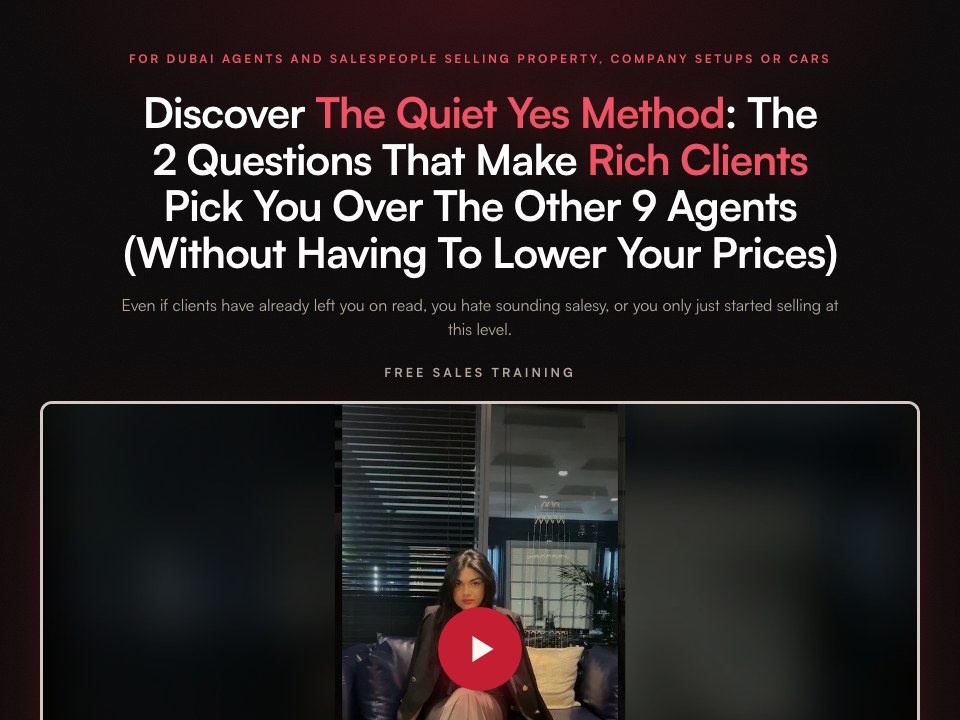
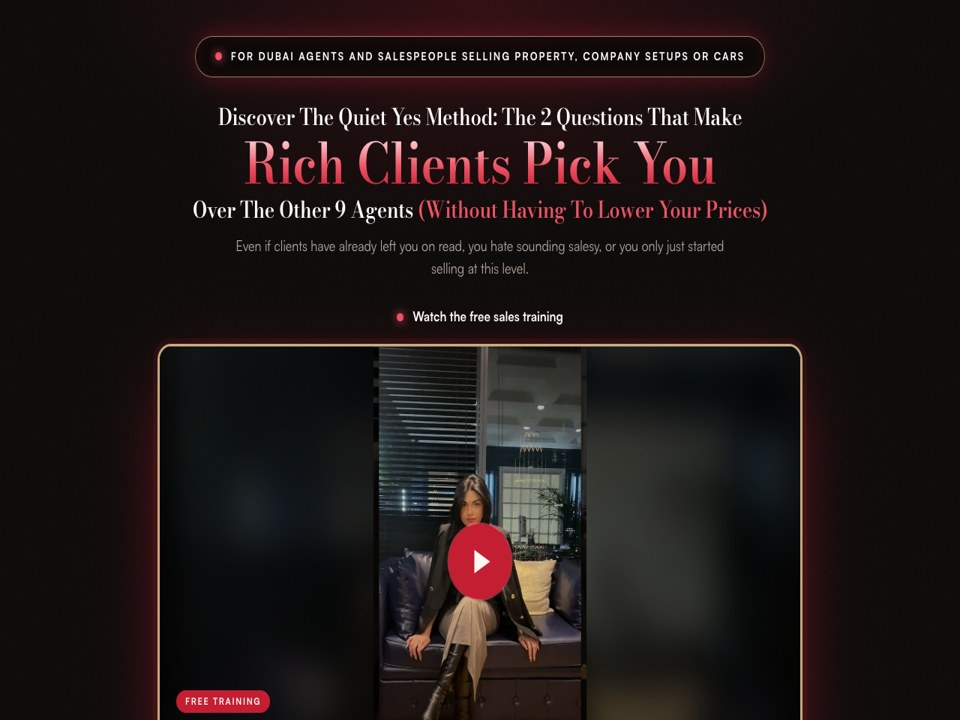
Landing: Ravi-order template in Mansi colours

Changed region(s): [[0.0312, 0.0306, 0.9688, 1.0]]

diff --git a/vsl/lt.css b/vsl/lt.css
@@ -1,0 +1,96 @@
+/* Landing page look: structure of the live Limitless Agency page, in warm black and champagne gold with a soft glow */
+body::before { background: radial-gradient(60% 38% at 50% 0%, rgba(196, 30, 51, 0.20), transparent 70%), radial-gradient(50% 30% at 50% 100%, rgba(196, 30, 51, 0.10), transparent 70%), #0a0807; }
+.lt { max-width: 1120px; margin: 0 auto; padding: clamp(28px, 5vh, 56px) 20px clamp(48px, 7vh, 80px); text-align: center; font-family: "Montserrat", var(--sans); }
+.lt-hero { max-width: 900px; margin: 0 auto; }
+.lt-pill { display: inline-flex; align-items: center; gap: 12px; padding: 12px 26px; border-radius: 999px; background: rgba(10, 8, 7, .8); border: 1.5px solid rgba(227, 199, 149, .55); box-shadow: 0 0 34px -6px rgba(196, 30, 51, .55), inset 0 0 18px rgba(196, 30, 51, .12); font-size: .78rem; font-weight: 800; letter-spacing: .16em; text-transform: uppercase; color: #fff; }
+.lt-pill i, .lt-watch i, .lt-kicker i, .lt-step i, .lt-apply__head i, .lt-ticker__tag i { display: inline-block; width: 9px; height: 9px; border-radius: 50%; background: var(--accent-text); box-shadow: 0 0 12px var(--accent-text); }
+.lt-h1 { margin-top: 30px; font-weight: 800; letter-spacing: -.03em; line-height: 1.08; color: #fff; text-wrap: balance; }
+.lt-h1__a { display: block; font-size: clamp(1.15rem, 2.6vw, 1.7rem); font-weight: 700; }
+.lt-h1__b { display: block; margin: 6px 0; font-size: clamp(2.6rem, 7.6vw, 5.2rem); line-height: 1.02; background: linear-gradient(180deg, #ffe3e6, #ee5466 55%, #c41e33); -webkit-background-clip: text; background-clip: text; color: transparent; filter: drop-shadow(0 0 30px rgba(196, 30, 51, .35)); }
+.lt-h1__c { display: block; font-size: clamp(1.1rem, 2.4vw, 1.6rem); font-weight: 700; }
+.lt-h1__c em { font-style: normal; color: var(--accent-text); }
+.lt-watch { margin: 28px 0 18px; display: flex; flex-wrap: wrap; align-items: center; justify-content: center; gap: 10px 12px; font-size: .95rem; }
+.lt-watch b { font-weight: 800; color: #fff; }
+.lt-watch span { color: var(--muted); font-size: .85rem; }
+.lt-video { max-width: 860px; margin: 0 auto; }
+.lt-video .video__frame { border: 3px solid rgba(227, 199, 149, .85); border-radius: 18px; box-shadow: 0 0 0 6px rgba(196, 30, 51, .12), 0 30px 90px -20px rgba(196, 30, 51, .65); overflow: hidden; }
+.lt-video__cap { font-family: "Montserrat", var(--sans); position: absolute; left: 22px; bottom: 26px; text-align: left; display: grid; gap: 8px; z-index: 3; }
+.lt-video__cap b { justify-self: start; padding: 5px 12px; border-radius: 999px; background: var(--accent); color: var(--accent-ink); font-size: .66rem; letter-spacing: .16em; text-transform: uppercase; font-weight: 800; }
+.lt-video__cap strong { font-size: clamp(1.1rem, 3vw, 1.7rem); font-weight: 800; color: #fff; letter-spacing: -.02em; text-shadow: 0 2px 18px rgba(0,0,0,.7); }
+.lt-cta { margin-top: 30px; display: flex; flex-wrap: wrap; align-items: stretch; justify-content: center; gap: 14px; }
+.lt-cta .btn-apply { border-radius: 999px; letter-spacing: .1em; font-weight: 800; padding: 18px 34px; }
+.lt-cta__note { display: flex; align-items: center; gap: 10px; max-width: 420px; padding: 12px 18px; border-radius: 12px; background: rgba(255,255,255,.04); border: 1px solid var(--hair); text-align: left; color: var(--muted); font-size: .82rem; line-height: 1.4; }
+.lt-cta__note span { flex: none; display: grid; place-items: center; width: 22px; height: 22px; border-radius: 50%; border: 1.5px solid var(--accent-text); color: var(--accent-text); font-size: .7rem; }
+.lt-fine { margin-top: 12px; color: var(--muted); font-size: .8rem; }
+.lt-stat { margin: clamp(40px, 6vh, 64px) auto 0; max-width: 860px; display: grid; grid-template-columns: 96px auto 1fr; align-items: center; gap: 22px; padding: 18px 26px; border-radius: 18px; background: rgba(255,255,255,.03); border: 1px solid rgba(227, 199, 149, .4); box-shadow: 0 0 44px -14px rgba(196, 30, 51, .5); text-align: left; }
+.lt-stat img { width: 96px; height: 120px; object-fit: cover; object-position: 50% 20%; border-radius: 12px; }
+.lt-stat__n b { display: block; font-size: 2.4rem; font-weight: 800; letter-spacing: -.03em; background: linear-gradient(180deg, #ffe3e6, #ee5466); -webkit-background-clip: text; background-clip: text; color: transparent; line-height: 1; }
+.lt-stat__n span { display: block; margin-top: 8px; font-size: .68rem; font-weight: 800; letter-spacing: .14em; text-transform: uppercase; color: var(--accent-text); }
+.lt-stat > p { padding-left: 22px; border-left: 1px solid var(--hair); color: var(--ink); font-size: .92rem; line-height: 1.55; }
+.lt-promise { margin: 28px auto 0; max-width: 860px; display: grid; grid-template-columns: 110px 1fr; align-items: center; gap: 26px; padding: 26px 30px; border-radius: 22px; text-align: left; background: linear-gradient(135deg, rgba(184,147,90,.18), rgba(10,8,7,.9) 60%); border: 1.5px solid rgba(227, 199, 149, .65); box-shadow: 0 0 60px -18px rgba(196, 30, 51, .65); }
+.lt-promise__badge { display: grid; place-items: center; align-content: center; width: 104px; height: 104px; border-radius: 50%; background: radial-gradient(circle at 35% 30%, #ff8a97, #c41e33 70%); color: #fff7f2; box-shadow: 0 0 40px rgba(184,147,90,.6); }
+.lt-promise__badge b { font-size: 2.2rem; font-weight: 800; line-height: 1; }
+.lt-promise__badge small { font-size: .62rem; font-weight: 800; letter-spacing: .18em; }
+.lt-promise__k { font-size: .7rem; font-weight: 800; letter-spacing: .2em; text-transform: uppercase; color: var(--accent-text); }
+.lt-promise h2 { margin: 8px 0; font-size: clamp(1.4rem, 3vw, 2rem); font-weight: 800; letter-spacing: -.02em; color: #fff; line-height: 1.15; }
+.lt-promise p:last-child { color: var(--muted); font-size: .9rem; line-height: 1.55; }
+.lt-promise a { color: var(--accent-text); text-decoration: underline; }
+.lt-kicker { display: inline-flex; align-items: center; gap: 12px; font-size: .74rem; font-weight: 800; letter-spacing: .22em; text-transform: uppercase; color: var(--accent-text); }
+.lt-h2 { margin-top: 16px; font-size: clamp(1.8rem, 4.4vw, 3rem); font-weight: 800; letter-spacing: -.03em; line-height: 1.1; color: #fff; text-wrap: balance; }
+.lt-h2 em { font-style: normal; color: var(--accent-text); }
+.lt-sub { margin-top: 12px; color: var(--muted); font-size: 1rem; }
+.lt-learn, .lt-numbers, .lt-cases, .lt-wins, .lt-faq { margin-top: clamp(64px, 10vh, 110px); }
+.lt-learn__grid { margin: 30px auto 0; max-width: 980px; display: grid; grid-template-columns: repeat(3, 1fr); gap: 16px; text-align: left; }
+.lt-learn__grid article { padding: 26px 24px; border-radius: 18px; background: var(--surface); border: 1px solid var(--hair); box-shadow: 0 0 40px -20px rgba(184,147,90,.5); }
+.lt-learn__grid span { font-size: .8rem; font-weight: 800; letter-spacing: .2em; color: var(--accent-text); }
+.lt-learn__grid h3 { margin-top: 12px; font-size: 1.2rem; font-weight: 800; letter-spacing: -.01em; color: #fff; line-height: 1.25; }
+.lt-learn__grid p { margin-top: 10px; color: var(--muted); font-size: .92rem; line-height: 1.55; }
+.lt-apply { margin-top: clamp(64px, 10vh, 110px); display: grid; grid-template-columns: 1fr 1.05fr; gap: clamp(28px, 5vw, 64px); align-items: start; text-align: left; max-width: 1040px; margin-inline: auto; padding-top: 56px; border-top: 1px solid var(--hair); }
+.lt-step { display: inline-flex; align-items: center; gap: 12px; font-size: .74rem; font-weight: 800; letter-spacing: .22em; text-transform: uppercase; color: var(--accent-text); }
+.lt-apply .lt-h2 { margin-top: 14px; }
+.lt-apply__lead { margin-top: 14px; color: var(--ink); font-size: 1.05rem; line-height: 1.55; }
+.lt-steps { list-style: none; margin: 26px 0 0; padding: 0; display: grid; gap: 12px; }
+.lt-steps li { display: grid; grid-template-columns: 44px 1fr; gap: 14px; align-items: start; padding: 16px 18px; border-radius: 14px; background: var(--surface); border: 1px solid var(--hair); }
+.lt-steps b { display: grid; place-items: center; width: 44px; height: 44px; border-radius: 10px; background: var(--accent); color: var(--accent-ink); font-weight: 800; }
+.lt-steps h3 { font-size: 1rem; font-weight: 800; color: #fff; }
+.lt-steps p { margin-top: 4px; color: var(--muted); font-size: .86rem; line-height: 1.5; }
+.lt-apply__head { display: flex; justify-content: space-between; align-items: center; margin-bottom: 14px; font-size: .74rem; font-weight: 800; letter-spacing: .18em; text-transform: uppercase; color: var(--ink); }
+.lt-apply__head span { display: inline-flex; align-items: center; gap: 10px; }
+.lt-apply__head small { color: var(--muted); letter-spacing: .04em; text-transform: none; font-weight: 500; }
+.lt-apply .st6__form { max-width: none; margin: 0; border-color: rgba(227,199,149,.5); box-shadow: 0 0 60px -20px rgba(184,147,90,.6); }
+.lt-numbers__grid { margin: 30px auto 0; max-width: 980px; display: grid; grid-template-columns: repeat(3, 1fr); gap: 16px; }
+.lt-numbers__grid div { padding: 38px 20px; border-radius: 22px; background: radial-gradient(120% 90% at 50% 0%, rgba(184,147,90,.18), rgba(255,255,255,.02)); border: 1px solid rgba(227,199,149,.3); }
+.lt-numbers__grid b { display: block; font-size: clamp(2.6rem, 6vw, 4.2rem); font-weight: 800; letter-spacing: -.03em; color: #fff; line-height: 1; }
+.lt-numbers__grid span { display: block; margin-top: 14px; color: var(--muted); font-size: .95rem; }
+.lt-ticker { margin: clamp(48px, 7vh, 72px) -20px 0; display: flex; align-items: center; border-block: 1px solid var(--hair); background: rgba(255,255,255,.02); overflow: hidden; }
+.lt-ticker__tag { flex: none; z-index: 2; display: inline-flex; align-items: center; gap: 10px; padding: 18px 22px; background: #0a0807; font-size: .72rem; font-weight: 800; letter-spacing: .18em; text-transform: uppercase; color: #fff; box-shadow: 14px 0 20px #0a0807; }
+.lt-ticker__track { display: flex; gap: 38px; padding-left: 22px; white-space: nowrap; animation: ltTicker 48s linear infinite; }
+.lt-ticker__track span { display: inline-flex; align-items: center; gap: 12px; font-size: .86rem; font-weight: 600; color: var(--ink); }
+.lt-ticker__track i { width: 7px; height: 7px; border-radius: 50%; background: var(--accent-text); box-shadow: 0 0 10px var(--accent-text); }
+@keyframes ltTicker { to { transform: translateX(-50%); } }
+.lt-cases__row { margin: 30px -20px 0; padding: 4px 20px 18px; display: flex; gap: 16px; overflow-x: auto; scroll-snap-type: x mandatory; text-align: left; }
+.lt-case { flex: none; width: 300px; scroll-snap-align: start; padding: 0 0 20px; border-radius: 18px; background: var(--surface); border: 1px solid var(--hair); overflow: hidden; }
+.lt-case__img { position: relative; aspect-ratio: 4 / 3; overflow: hidden; }
+.lt-case__img img { width: 100%; height: 100%; object-fit: cover; display: block; }
+.lt-case__play { position: absolute; left: 50%; top: 50%; width: 58px; height: 58px; margin: -29px 0 0 -29px; border-radius: 50%; background: rgba(184,147,90,.92); box-shadow: 0 0 30px rgba(184,147,90,.7); }
+.lt-case__play::before { content: ""; position: absolute; left: 50%; top: 50%; transform: translate(-40%, -50%); border-style: solid; border-width: 9px 0 9px 15px; border-color: transparent transparent transparent #fff7f2; }
+.lt-case h3 { margin: 18px 18px 0; font-size: 1.35rem; font-weight: 800; letter-spacing: -.02em; color: var(--accent-text); line-height: 1.15; }
+.lt-case p { margin: 8px 18px 0; color: var(--muted); font-size: .85rem; line-height: 1.45; }
+.lt-wins__grid { margin: 30px auto 0; max-width: 1040px; column-count: 3; column-gap: 14px; }
+.lt-win { margin: 0 0 14px; break-inside: avoid; padding: 8px; border-radius: 14px; background: var(--surface); border: 1px solid var(--hair); }
+.lt-win img { width: 100%; height: auto; display: block; border-radius: 8px; }
+.lt-faq .lt-h2 { margin-bottom: 22px; }
+@media (max-width: 860px) { .lt-apply { grid-template-columns: 1fr; } .lt-learn__grid, .lt-numbers__grid { grid-template-columns: 1fr; } .lt-wins__grid { column-count: 2; } .lt-stat { grid-template-columns: 80px 1fr; } .lt-stat > p { grid-column: 1 / -1; padding: 14px 0 0; border: 0; border-top: 1px solid var(--hair); } .lt-promise { grid-template-columns: 1fr; text-align: center; } .lt-promise__badge { margin: 0 auto; } }
+@media (max-width: 520px) { .lt-wins__grid { column-count: 1; } .lt-case { width: 260px; } }
+@media (prefers-reduced-motion: reduce) { .lt-ticker__track { animation: none; } }
+
+.lt-h1__b { font-size: clamp(2.2rem, 6.4vw, 4.4rem); }
+.lt { overflow-x: clip; width: 100%; min-width: 0; box-sizing: border-box; }
+.lt-ticker { min-width: 0; contain: paint; width: 100%; margin-inline: 0; }
+.lt-cases__row { max-width: 100vw; margin-inline: 0; padding-inline: 4px; }
+
+/* the three numbers always sit on one line */
+.lt-h1__b { white-space: nowrap; font-size: clamp(1.45rem, 5.3vw, 3.9rem); }
+
+/* the white line above the numbers stays on one line on desktop */
+@media (min-width: 900px) { .lt-h1__a { white-space: nowrap; font-size: clamp(1.1rem, 2vw, 1.7rem); } }

diff --git a/vsl/index.html b/vsl/index.html
@@ -7,32 +7,102 @@
   <meta name="robots" content="noindex" />
   <script>document.documentElement.className += " js";</script>
   <link rel="icon" href="../assets/img/favicon.png" type="image/png" />
+  <link rel="apple-touch-icon" href="../assets/img/apple-touch-icon.png" />
   <link rel="stylesheet" href="vsl.css" />
   <link rel="stylesheet" href="../assets/brand.css" />
   <link rel="stylesheet" href="st6.css" />
+  <link rel="stylesheet" href="lt.css" />
+<script data-topfix>try{if("scrollRestoration" in history)history.scrollRestoration="manual"}catch(e){}addEventListener("load",function(){if(!location.hash){scrollTo(0,0);setTimeout(function(){scrollTo(0,0)},50)}});</script>
+<style>.lt-oncall{max-width:760px;margin:clamp(56px,9vh,96px) auto 0;padding:0 max(16px,env(safe-area-inset-left,0px))}.lt-oncall .lt-steps h3{color:var(--ink)}</style>
+<style>.lt-h1{font-family:var(--display);letter-spacing:-.01em}.lt-h2{font-family:var(--display)}.lt-sub{max-width:62ch;margin:14px auto 0}@media (min-width:1000px){.lt-cases__row{justify-content:center}}</style>
 </head>
 <body>
+  <!-- ONE page: eyebrow, headline, VSL, CTA, on this call, numbers, results, more wins, FAQ, application. -->
+  <main class="page lt">
+    <div class="lt-hero">
+      <p class="lt-pill"><i></i>For Dubai agents and salespeople selling property, company setups or cars</p>
+      <h1 class="lt-h1">
+        <span class="lt-h1__a">Discover The Quiet Yes Method: The 2 Questions That Make</span>
+        <span class="lt-h1__b">Rich Clients Pick You</span>
+        <span class="lt-h1__c">Over The Other 9 Agents <em>(Without Having To Lower Your Prices)</em></span>
+      </h1>
+      <p class="lt-sub">Even if clients have already left you on read, you hate sounding salesy, or you only just started selling at this level.</p>
+      <p class="lt-watch"><i></i><b>Watch the free sales training</b></p>
 
-  <main class="page st6">
-    <p class="eyebrow st6__eyebrow">For Dubai agents and salespeople selling property, company setups or cars</p>
-    <h1 class="st6__title">Discover <span>The Quiet Yes Method</span>: The 2 Questions That Make <span>Rich Clients</span> Pick You Over The Other 9 Agents (Without Having To Lower Your Prices)</h1>
-    <p class="st6__even">Even if clients have already left you on read, you hate sounding salesy, or you only just started selling at this level.</p>
-    <p class="st6__tag">Free sales training</p>
+      <!-- {SWAP: training video} -->
+      <div class="lt-video">
+        <button class="video__frame" type="button" data-optin aria-label="Watch the free training">
+          <img src="../assets/img/vsl-thumb.jpg" alt="Mansi Panchal" />
+          <span class="video__scrim" aria-hidden="true"></span>
+          <span class="play" aria-hidden="true"></span>
+          <span class="lt-video__cap" aria-hidden="true"><b>Free training</b><strong>The Quiet Yes: the 2 questions</strong></span>
+          <span class="video__bar" aria-hidden="true"><span></span></span>
+        </button>
+      </div>
 
-    
-    <div class="st6__video">
-      <button class="video__frame" type="button" data-optin aria-label="Watch the free training">
-        <img src="../assets/img/vsl-thumb.jpg" alt="Mansi Panchal" />
-        <span class="video__scrim" aria-hidden="true"></span>
-        <span class="play" aria-hidden="true"></span>
-        <span class="video__bar" aria-hidden="true"><span></span></span>
-      </button>
+      <div class="lt-cta">
+        <a class="btn-apply" href="#apply-inline">Book a free call <span class="arr" aria-hidden="true" style="transform:rotate(45deg)"></span></a>
+      </div>
+
+      
+
+      
     </div>
 
-    <h2 class="st6__h2">Ready To Take The Next Step?</h2>
-    <p class="st6__lead">Fill out the short application and see if you're the right fit for The Closing Room. Not every application is accepted.</p>
+    <section class="lt-oncall">
+      <p class="lt-kicker"><i></i>On this call we&rsquo;ll</p>
+      <ol class="lt-steps">
+        <li><b>1</b><div><h3>Find where your deals get stuck</h3><p>We look at the moment clients go quiet: after the details, after the price, or on the call.</p></div></li>
+        <li><b>2</b><div><h3>Show you the Quiet Yes on your real deals</h3><p>&ldquo;Compared to what?&rdquo; Then silence. Then &ldquo;What are they excluding from the price?&rdquo;</p></div></li>
+        <li><b>3</b><div><h3>Tell you honestly if The Closing Room can help</h3><p>If it&rsquo;s not a fit, my team will tell you on the call.</p></div></li>
+      </ol>
+    </section>
 
-    <div class="st6__form" id="apply-inline">
+    <section class="lt-numbers">
+      <p class="lt-kicker"><i></i>The numbers</p>
+      <h2 class="lt-h2">The numbers behind <em>Mansi.</em></h2>
+      <div class="lt-numbers__grid">
+        <div><b>109K</b><span>people learning sales from her</span></div>
+        <div><b>3M</b><span>plays on one Reel</span></div>
+        <div><b>AED 3,500</b><span>her first sales job in 2019, now CEO of FounderX</span></div>
+      </div>
+    </section>
+
+    <section class="lt-cases">
+      <p class="lt-kicker"><i></i>Real results</p>
+      <h2 class="lt-h2">From sales executive <em>to CEO.</em></h2>
+      <p class="lt-sub">She started as a business set-up advisor in 2019, became the one who closed the biggest clients, and built FounderX in Business Bay.</p>
+      <div class="lt-cases__row"><article class="lt-case"><div class="lt-case__img"><img src="../assets/img/proof/p4.jpg" alt="Mansi Panchal" loading="lazy" /></div><h3>CEO of FounderX</h3><p>Company formation in Business Bay, Dubai</p></article><article class="lt-case"><div class="lt-case__img"><img src="../assets/img/proof/p1.jpg" alt="Mansi Panchal" loading="lazy" /></div><h3>3M plays</h3><p>Her G-Wagon Reel</p></article><article class="lt-case"><div class="lt-case__img"><img src="../assets/img/proof/p6.jpg" alt="Mansi Panchal" loading="lazy" /></div><h3>109K followers</h3><p>Who come to her for sales advice</p></article></div>
+    </section>
+
+    <section class="lt-wins">
+      <p class="lt-kicker"><i></i>Want to see more?</p>
+      <h2 class="lt-h2">A day in <em>her world.</em></h2>
+      <div class="lt-wins__grid"><figure class="lt-win"><img src="../assets/img/proof/p2.jpg" alt="Mansi Panchal" loading="lazy" /></figure><figure class="lt-win"><img src="../assets/img/proof/p3.jpg" alt="Mansi Panchal" loading="lazy" /></figure><figure class="lt-win"><img src="../assets/img/proof/p5.jpg" alt="Mansi Panchal" loading="lazy" /></figure><figure class="lt-win"><img src="../assets/img/proof/p7.jpg" alt="Mansi Panchal" loading="lazy" /></figure><figure class="lt-win"><img src="../assets/img/proof/p8.jpg" alt="Mansi Panchal" loading="lazy" /></figure></div>
+    </section>
+
+    <section class="st6__faq lt-faq">
+      <p class="lt-kicker"><i></i>Questions</p>
+      <h2 class="lt-h2">Before you <em>apply.</em></h2>
+      <details open><summary>What happens after I apply?</summary><p>My team reads your answers. If it looks like a fit, you pick a time for a 30-minute call. They look at where your deals get stuck and tell you honestly if The Closing Room can help.</p></details>
+      <details><summary>Do I need sales experience?</summary><p>No. If you sell something expensive, or you want to move into sales, you can apply.</p></details>
+      <details><summary>How much time does it take?</summary><p>One short lesson and one live call a week, planned around your meetings and viewings.</p></details>
+    </section>
+
+    <section class="lt-apply" id="apply">
+      <div class="lt-apply__left">
+        <p class="lt-step"><i></i>Step 1 of 2</p>
+        <h2 class="lt-h2">Ready to take <em>the next step?</em></h2>
+        <p class="lt-apply__lead">Fill out the short application and see if you&rsquo;re the right fit for The Closing Room. Not every application is accepted.</p>
+        <ol class="lt-steps">
+          <li><b>1</b><div><h3>Answer 6 quick questions</h3><p>What you sell, last month&rsquo;s earnings and where you lose deals. Under 60 seconds.</p></div></li>
+          <li><b>2</b><div><h3>Pick a time</h3><p>Grab a slot right after the questions.</p></div></li>
+          <li><b>3</b><div><h3>30-minute call with my team</h3><p>They look at where your deals get stuck. If it&rsquo;s a fit, they show you how The Closing Room works.</p></div></li>
+        </ol>
+      </div>
+      <div class="lt-apply__right">
+        <p class="lt-apply__head"><span><i></i>Application</span><small>About 60 seconds</small></p>
+        <div class="st6__form" id="apply-inline">
       <div class="apply__progress"><span id="apply-bar"></span></div>
 
       <div class="q on">
@@ -107,14 +177,23 @@
         <p class="book__tz">Gulf time · 30-minute call</p>
       </div>
     </div>
-
-    <section class="st6__faq">
-      <p class="eyebrow">Questions</p>
-      <h2 class="st6__h2">Before You Apply</h2>
-      <details open><summary>What happens after I apply?</summary><p>My team reads your answers. If it looks like a fit, you pick a time for a 30-minute call. They look at where your deals get stuck and tell you honestly if The Closing Room can help.</p></details>
-      <details><summary>Do I need sales experience?</summary><p>No. If you sell something expensive, or you want to move into sales, you can apply.</p></details>
-      <details><summary>How much time does it take?</summary><p>One short lesson and one live call a week, planned around your meetings and viewings.</p></details>
+      </div>
     </section>
+
+
+    
+
+    
+
+    
+
+    
+
+    
+
+    
+
+    
   </main>
 
   <footer class="brandfoot">
@@ -150,6 +229,16 @@
         var inp = q.querySelector(".q__input"); if (inp) inp.addEventListener("keydown", function (e) { if (e.key === "Enter") { e.preventDefault(); show(i + 1); } });
         q.querySelectorAll(".book__day").forEach(function (d, _, all) { d.addEventListener("click", function () { all.forEach(function (x) { x.classList.remove("sel"); }); d.classList.add("sel"); }); });
       });
+    })();
+  </script>
+  <script>
+    // counters
+    (function () {
+      var els = document.querySelectorAll("[data-count]"); if (!els.length || !("IntersectionObserver" in window)) return;
+      var io = new IntersectionObserver(function (es) { es.forEach(function (e) { if (!e.isIntersecting) return; io.unobserve(e.target); var el = e.target, to = +el.getAttribute("data-count"), suf = el.getAttribute("data-suffix") || "", t0 = null;
+        function step(t) { if (!t0) t0 = t; var p = Math.min((t - t0) / 1200, 1); el.textContent = Math.round(to * (1 - Math.pow(1 - p, 3))).toLocaleString("en-US") + (p === 1 ? suf : ""); if (p < 1) requestAnimationFrame(step); }
+        requestAnimationFrame(step); }); }, { threshold: 0.4 });
+      els.forEach(function (el) { io.observe(el); });
     })();
   </script>
 </body>

diff --git a/index.html b/index.html
@@ -186,7 +186,7 @@
             <span class="group__rule"></span>
           </div>
           <div class="grid grid--1">
-            <button class="pcard pcard--wide reveal" data-title="The high-ticket offer" data-embed="offer/?v=1792692168">
+            <button class="pcard pcard--wide reveal" data-title="The high-ticket offer" data-embed="offer/?v=1792692544">
               <span class="thumb thumb--wide"><span class="thumb__bar"><i></i><i></i><i></i><span class="thumb__url">closingroom.ae/the-closing-room</span></span><img class="thumb__img" src="assets/img/offer-preview.jpg" alt="The Closing Room preview" loading="lazy" /></span>
               <span class="pcard__body"><span><span class="pcard__kicker">01 · The offer</span><span class="pcard__title">The Closing Room</span><span class="pcard__desc">A 12-week programme built on your Quiet Yes, with real call reviews and a script written for each member.</span></span><span class="pcard__link">Open preview <span class="arrow" aria-hidden="true"></span></span></span>
             </button>
@@ -200,7 +200,7 @@
             <span class="group__rule"></span>
           </div>
           <div class="grid grid--1">
-            <button class="pcard pcard--wide reveal" data-title="Your YouTube flywheel" data-embed="youtube-flywheel/?v=1792692168">
+            <button class="pcard pcard--wide reveal" data-title="Your YouTube flywheel" data-embed="youtube-flywheel/?v=1792692544">
               <span class="thumb thumb--wide"><span class="thumb__bar"><i></i><i></i><i></i><span class="thumb__url">your free full course</span></span><img class="thumb__img" src="assets/img/flywheel-preview.jpg" alt="YouTube flywheel preview" loading="lazy" /></span>
               <span class="pcard__body"><span><span class="pcard__kicker">01 · Start here</span><span class="pcard__title">Your YouTube flywheel</span><span class="pcard__desc">One free full course on YouTube that does the selling: the thumbnail, the course outline, the two links under every video and the pinned comment.</span></span><span class="pcard__link">Open preview <span class="arrow" aria-hidden="true"></span></span></span>
             </button>
@@ -214,11 +214,11 @@
             <span class="group__rule"></span>
           </div>
           <div class="grid grid--2">
-            <button class="pcard reveal" data-title="VSL + book a call" data-embed="vsl/?v=1792692168">
-              <span class="thumb"><span class="thumb__bar"><i></i><i></i><i></i><span class="thumb__url">closingroom.ae/training</span></span><img class="thumb__img" src="assets/img/vsl-preview.jpg" alt="VSL sales page preview" loading="lazy" /></span>
+            <button class="pcard reveal" data-title="VSL + book a call" data-embed="vsl/?v=1792692544">
+              <span class="thumb"><span class="thumb__bar"><i></i><i></i><i></i><span class="thumb__url">closingroom.ae/training</span></span><img class="thumb__img" src="assets/img/vsl-preview.jpg?v=1792692544" alt="VSL sales page preview" loading="lazy" /></span>
               <span class="pcard__body"><span><span class="pcard__kicker">01 · Your link in bio</span><span class="pcard__title">VSL + book a call</span><span class="pcard__desc">One page: the free training (email to unlock), then the application right underneath it.</span></span><span class="pcard__link">Open preview <span class="arrow" aria-hidden="true"></span></span></span>
             </button>
-            <button class="pcard reveal" data-title="Thank-you page" data-embed="thank-you/?v=1792692168">
+            <button class="pcard reveal" data-title="Thank-you page" data-embed="thank-you/?v=1792692544">
               <span class="thumb"><span class="thumb__bar"><i></i><i></i><i></i><span class="thumb__url">closingroom.ae/booked</span></span><img class="thumb__img" src="assets/img/thankyou-preview.jpg" alt="Thank-you page preview" loading="lazy" /></span>
               <span class="pcard__body"><span><span class="pcard__kicker">02 · Booked</span><span class="pcard__title">Thank-you page</span><span class="pcard__desc">Your welcome video plus the answers people need before they show up to the call.</span></span><span class="pcard__link">Open preview <span class="arrow" aria-hidden="true"></span></span></span>
             </button>
@@ -232,7 +232,7 @@
             <span class="group__rule"></span>
           </div>
           <div class="grid grid--1">
-            <button class="pcard pcard--wide reveal" data-title="VSL script" data-embed="vsl-script/?v=1792692168">
+            <button class="pcard pcard--wide reveal" data-title="VSL script" data-embed="vsl-script/?v=1792692544">
               <span class="thumb thumb--wide"><span class="thumb__bar"><i></i><i></i><i></i><span class="thumb__url">script · 8 beats</span></span><img class="thumb__img" src="assets/img/vslscript-preview.jpg" alt="VSL script preview" loading="lazy" /></span>
               <span class="pcard__body"><span><span class="pcard__kicker">~14 min · 8 beats</span><span class="pcard__title">VSL script</span><span class="pcard__desc">Eleven boxes, from "one of ten PDFs" to the 2 questions, written in your own words.</span></span><span class="pcard__link">Open preview <span class="arrow" aria-hidden="true"></span></span></span>
             </button>
@@ -246,15 +246,15 @@
             <span class="group__rule"></span>
           </div>
           <div class="grid grid--3">
-            <button class="pcard reveal" data-title="Static ad" data-embed="static-ad/?v=1792692168" data-noanim>
+            <button class="pcard reveal" data-title="Static ad" data-embed="static-ad/?v=1792692544" data-noanim>
               <span class="thumb"><span class="thumb__bar"><i></i><i></i><i></i><span class="thumb__url">instagram.com/mansiinsights</span></span><img class="thumb__img" src="assets/img/static-ad-preview.jpg" alt="Static ad preview" loading="lazy" /></span>
               <span class="pcard__body"><span><span class="pcard__kicker">01 · Static</span><span class="pcard__title">Static ad</span><span class="pcard__desc">The free training as one image, with a "comment UNLOCK" call to action.</span></span><span class="pcard__link">Open preview <span class="arrow" aria-hidden="true"></span></span></span>
             </button>
-            <button class="pcard reveal" data-title="Ad creative scripts" data-embed="ad-scripts/?v=1792692168">
+            <button class="pcard reveal" data-title="Ad creative scripts" data-embed="ad-scripts/?v=1792692544">
               <span class="thumb"><span class="thumb__bar"><i></i><i></i><i></i><span class="thumb__url">scripts · 5 angles</span></span><img class="thumb__img" src="assets/img/adscripts-preview.jpg" alt="Ad creative scripts preview" loading="lazy" /></span>
               <span class="pcard__body"><span><span class="pcard__kicker">02 · Video</span><span class="pcard__title">Ad creative scripts</span><span class="pcard__desc">Five short scripts. Each ends with "comment UNLOCK and I'll send you the free training".</span></span><span class="pcard__link">Open preview <span class="arrow" aria-hidden="true"></span></span></span>
             </button>
-            <button class="pcard reveal" data-title="Instagram carousel" data-embed="carousel/phone/?v=1792692168" data-noanim>
+            <button class="pcard reveal" data-title="Instagram carousel" data-embed="carousel/phone/?v=1792692544" data-noanim>
               <span class="thumb"><span class="thumb__bar"><i></i><i></i><i></i><span class="thumb__url">instagram.com/mansiinsights</span></span><img class="thumb__img" src="assets/img/carousel-preview.jpg" alt="Carousel preview" loading="lazy" /></span>
               <span class="pcard__body"><span><span class="pcard__kicker">03 · Carousel</span><span class="pcard__title">Carousel</span><span class="pcard__desc">Ten slides. It opens with "stop sending the details" and every slide pulls you to the next.</span></span><span class="pcard__link">Open preview <span class="arrow" aria-hidden="true"></span></span></span>
             </button>
@@ -268,15 +268,15 @@
             <span class="group__rule"></span>
           </div>
           <div class="grid grid--3">
-            <button class="pcard reveal" data-title="Opted-in email sequence" data-embed="opted-in/?v=1792692168">
+            <button class="pcard reveal" data-title="Opted-in email sequence" data-embed="opted-in/?v=1792692544">
               <span class="thumb"><span class="thumb__bar"><i></i><i></i><i></i><span class="thumb__url">sequence · 8 emails</span></span><img class="thumb__img" src="assets/img/optedin-preview.jpg" alt="Opted-in preview" loading="lazy" /></span>
               <span class="pcard__body"><span><span class="pcard__kicker">01 · Opted in</span><span class="pcard__title">Opted-in</span><span class="pcard__desc">Eight emails, one useful tip a day from your own reels, with the call only in the P.S.</span></span><span class="pcard__link">Open preview <span class="arrow" aria-hidden="true"></span></span></span>
             </button>
-            <button class="pcard reveal" data-title="Applied-not-booked email sequence" data-embed="applied-not-booked/?v=1792692168">
+            <button class="pcard reveal" data-title="Applied-not-booked email sequence" data-embed="applied-not-booked/?v=1792692544">
               <span class="thumb"><span class="thumb__bar"><i></i><i></i><i></i><span class="thumb__url">sequence · 4 emails</span></span><img class="thumb__img" src="assets/img/anb-preview.jpg" alt="Applied, not booked preview" loading="lazy" /></span>
               <span class="pcard__body"><span><span class="pcard__kicker">02 · Applied</span><span class="pcard__title">Applied, not booked</span><span class="pcard__desc">Four emails that get an applicant onto your team's calendar.</span></span><span class="pcard__link">Open preview <span class="arrow" aria-hidden="true"></span></span></span>
             </button>
-            <button class="pcard reveal" data-title="Pre-call email sequence" data-embed="pre-call/?v=1792692168">
+            <button class="pcard reveal" data-title="Pre-call email sequence" data-embed="pre-call/?v=1792692544">
               <span class="thumb"><span class="thumb__bar"><i></i><i></i><i></i><span class="thumb__url">sequence · 6 emails</span></span><img class="thumb__img" src="assets/img/precall-preview.jpg" alt="Pre-call preview" loading="lazy" /></span>
               <span class="pcard__body"><span><span class="pcard__kicker">03 · Booked to call</span><span class="pcard__title">Pre-call</span><span class="pcard__desc">Six emails that walk a booked applicant to the call pre-sold.</span></span><span class="pcard__link">Open preview <span class="arrow" aria-hidden="true"></span></span></span>
             </button>
